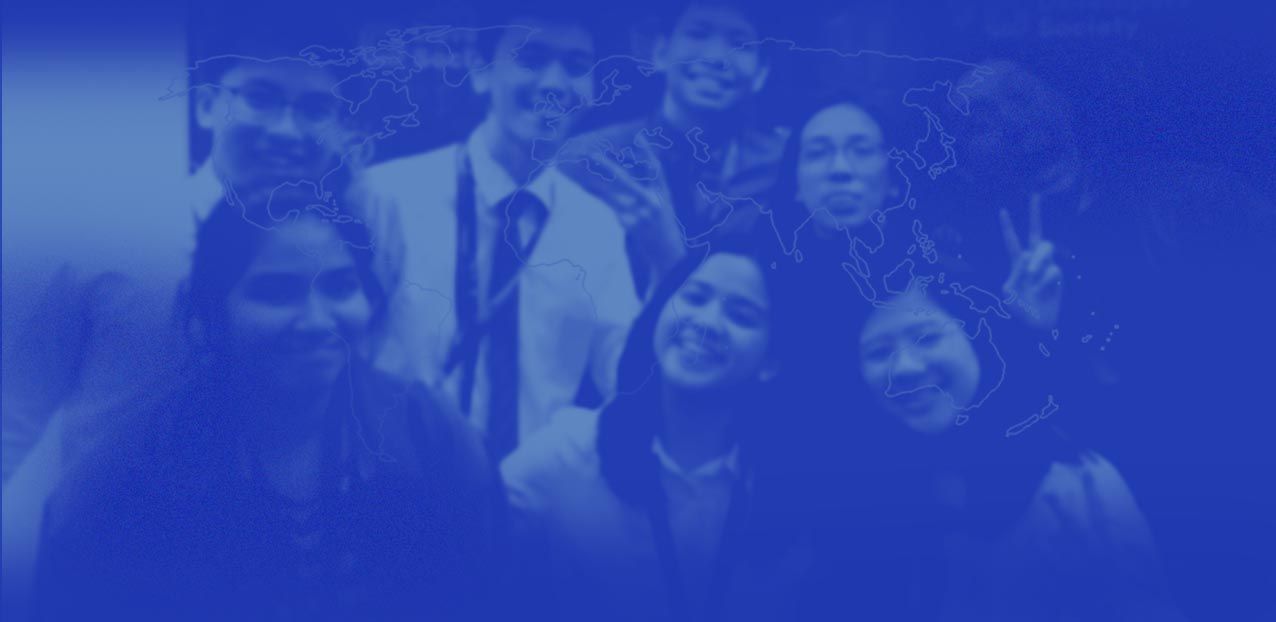
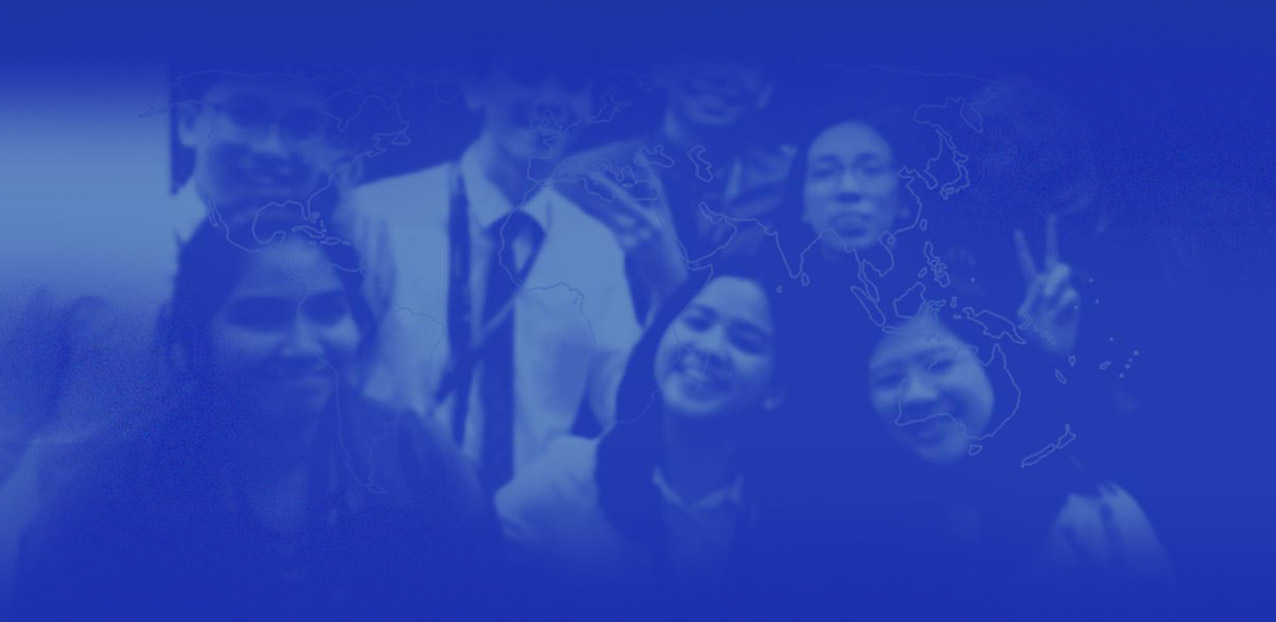
about and mobilel fixies

diff --git a/public/assets/styles/main.css b/public/assets/styles/main.css
@@ -1,2 +1,2 @@
-body{background:#FCFCFF;font-family:'Messina Sans';text-rendering:optimizeLegibility;-webkit-font-smoothing:antialiased;-moz-osx-font-smoothing:grayscale}#container{box-sizing:border-box;position:absolute;top:0;left:0;display:flex;flex-wrap:wrap;align-items:flex-start;height:100%;width:100vw;justify-items:center;overflow-x:hidden;overflow-y:scroll}.box{width:100%;box-sizing:border-box;display:flex;flex-wrap:wrap;justify-content:center;vertical-align:center;align-items:center;margin:0}body,*{-webkit-transition:all .25s linear;-moz-transition:all .25s linear;-ms-transition:all .25s linear;-o-transition:all .25s linear;transition:all .25s linear;color:#60656b}h1{display:block;text-align:left;font-size:2.1em;font-family:'GTHaptikBlack';font-weight:800;margin:0;max-width:80%}h2{display:block;font-size:1.8em;color:#60656b;font-family:'GTHaptikMedium'}h3{margin:0}h4{margin:.3em 0;font-size:.8em;text-transform:uppercase;font-family:'Messina Sans Mono'}p{font-size:18px;line-height:1.4em;margin:.75em 0}p a{border-bottom:1px solid transparent}p a:hover{border-bottom:1px solid #001E8F}.box-inner{padding:5vw}a{color:#001E8F;text-decoration:none}a:hover{color:#95C5DB}img{max-width:100%}details summary::-webkit-details-marker{display:none}details summary::after{content:"Learn more...";color:#a6b3c3}details:hover summary::after{color:#7e868f}.row{display:flex}.row section{min-width:40%}@media only screen and (max-width: 800px){.row{flex-wrap:wrap}.row section{width:100%}}#header{position:fixed;top:0;left:0;width:100%;height:110px;z-index:99;box-sizing:border-box;background-image:url(../images/navigatin.png);background-repeat:repeat-x;background-size:contain;justify-content:center;display:flex;justify-content:center;flex-wrap:wrap}#header .header-container{width:100%;max-width:1000px;margin:.5em}#header .header-left{display:inline-block;float:left;width:200px;opacity:0.9}#header .header-left:hover{transform:scale(1.02);opacity:1}#header .header-right{display:inline-block;float:right;margin-top:.75em}#header .header-right a{color:#FCFCFF;font-family:'GTHaptikBold';font-size:1.3em;margin:.5em .5em;padding:.5em;opacity:0.9}#header .header-right a:hover{color:#95C5DB;opacity:1}#footer{box-sizing:border-box;padding:1em 0;background:#131314;color:#7e868f;text-align:center}#footer .box-inner{max-width:750px;min-height:90px}#footer .links a{padding:0 .5em;margin:0 .5em;font-family:'Messina Sans Mono';color:#a6b3c3;text-transform:uppercase;font-size:.9em}#footer .links a:hover{text-shadow:0 0 10px #a6b3c3}#footer p{font-size:1.2em;font-weight:100;color:#7e868f}@media only screen and (max-width: 800px){#footer p{text-align:left;line-height:1.5em}}#heading{box-sizing:border-box;margin-top:1.75em;background:#1931AB;background-position:top center;min-height:300px;background-size:cover;background-repeat:none}#heading .box-inner{max-width:600px;padding-top:2em}#heading h1{text-align:center;max-width:100%;color:#FCFCFF;font-size:2.6em;font-weight:400}#heading p{color:#a6b3c3;mix-blend-mode:screen;text-align:center}.projects-container{display:flex;flex-wrap:wrap;justify-content:center;max-width:800px}.projects-container .project-box{width:320px;margin:1em;padding:.5em}.projects-container .project-box img{display:none}.projects-container .project-box h1{font-size:1.5em;font-family:'Messina Sans'}.projects-container .project-box h3{font-family:"Messina Sans Mono";text-transform:uppercase;font-size:.8em;color:#7e868f}.projects-container .project-box p{font-size:.9em;color:#7e868f}.projects-container .project-box:hover{transform:scale(1.02)}@media only screen and (max-width: 800px){.projects-container .project-box{width:90%;max-width:600px}}#signup{min-height:100px}#signup .box-inner{margin-top:-2em}#signup *{display:inline-block}#signup h2{display:block;text-align:center}#signup .mc-field-group{font-size:1em}#signup .mc-field-group input[type=email]{background:none;display:inline-block;border:1px solid #7e868f;border-radius:5px;font-size:1em;padding:.5em 1em;font-family:'Messina Sans';height:23px;min-width:250px}#signup input[type=submit]{display:inline-block;background:#131314;color:#FCFCFF;padding:.5em 1em;font-size:1.2em;border-radius:5px;border:0;margin:.3em 0;height:40px}#signup input[type=submit]:hover{transform:translateY(-2px);box-shadow:0 7px 14px rgba(50,50,93,0.1),0 3px 6px rgba(0,0,0,0.08)}#getinvolved{background:#1931AB;background-blend-mode:screen;background-position:top center;text-align:center;padding:2em 0}#getinvolved h2,#getinvolved p{text-align:center;color:#FCFCFF;margin:.5em}#getinvolved a.button{display:inline-block;color:#60656b;background:#95C5DB;height:30px;line-height:30px;margin:1em;padding:.5em .75em;border-radius:.5em}#getinvolved a.button:hover{background:#a6b3c3;transform:translateY(-2px);box-shadow:0 7px 14px rgba(50,50,93,0.1),0 3px 6px rgba(0,0,0,0.08)}.team-container{display:flex;flex-wrap:wrap;justify-content:center;text-align:center}.team-container .team-box{width:200px;margin:.5em}.team-container .team-box h2{font-family:'Messina Sans';font-size:1.2em;margin:.2em 0 0 0}.team-container .team-box h3{font-size:.7em;font-weight:100;margin:0;text-transform:uppercase;color:#a6b3c3;font-family:'Messina Sans Mono'}.team-container .team-box p{font-size:.9em;color:#7e868f;text-align:left}.team-container .team-box img{box-sizing:border-box;margin-bottom:1em;border-radius:5px;filter:grayscale(1)}.community-container .community-communities{width:100%;display:flex;flex-wrap:wrap;justify-content:center}.community-container .community-place{padding:1em;max-width:120px;text-align:center;font-size:.8em;line-height:1.3em;mix-blend-mode:lighten;color:#7e868f}.community-container .community-place img{max-width:110px;padding:1em;box-sizing:border-box}.community-container a.button{display:inline-block;background:#a6b3c3;color:#60656b;margin:1em;padding:.5em .75em;border-radius:.5em}.community-container a.button:hover{color:#FCFCFF;background:#1931AB;transform:translateY(-2px);box-shadow:0 7px 14px rgba(50,50,93,0.1),0 3px 6px rgba(0,0,0,0.08)}@font-face{font-family:'GTHaptikBlack';src:url(/assets/fonts/GTHaptikBlack.woff2) format("woff2"),url(/assets/fonts/GTHaptikBlack.woff) format("woff");font-weight:900;font-style:normal}@font-face{font-family:'GTHaptikMedium';src:url(/assets/fonts/GTHaptikMedium.woff2) format("woff2"),url(/assets/fonts/GTHaptikMedium.woff) format("woff");font-weight:500;font-style:normal}@font-face{font-family:'GTHaptikBold';src:url(/assets/fonts/GTHaptikBold.woff2) format("woff2"),url(/assets/fonts/GTHaptikBold.woff) format("woff");font-weight:bold;font-style:normal}@font-face{font-family:'Messina Sans Mono';src:url(/assets/fonts/MessinaSansMono-Regular.woff2) format("woff2"),url(/assets/fonts/MessinaSansMono-Regular.woff) format("woff");font-weight:normal;font-style:normal}@font-face{font-family:'Messina Sans';src:url(/assets/fonts/MessinaSans-Regular.woff2) format("woff2"),url(/assets/fonts/MessinaSans-Regular.woff) format("woff");font-weight:normal;font-style:normal}@font-face{font-family:'Messina Sans';src:url(/assets/fonts/MessinaSans-BoldItalic.woff2) format("woff2"),url(/assets/fonts/MessinaSans-BoldItalic.woff) format("woff");font-weight:bold;font-style:italic}@font-face{font-family:'Messina Sans';src:url(/assets/fonts/MessinaSans-RegularItalic.woff2) format("woff2"),url(/assets/fonts/MessinaSans-RegularItalic.woff) format("woff");font-weight:normal;font-style:italic}@font-face{font-family:'Messina Sans';src:url(/assets/fonts/MessinaSans-Bold.woff2) format("woff2"),url(/assets/fonts/MessinaSans-Bold.woff) format("woff");font-weight:bold;font-style:normal}
+body{background:#FCFCFF;font-family:'Messina Sans';text-rendering:optimizeLegibility;-webkit-font-smoothing:antialiased;-moz-osx-font-smoothing:grayscale}#container{box-sizing:border-box;position:absolute;top:0;left:0;display:flex;flex-wrap:wrap;align-items:flex-start;height:100%;width:100vw;justify-items:center;overflow-x:hidden;overflow-y:scroll}.box{width:100%;box-sizing:border-box;display:flex;flex-wrap:wrap;justify-content:center;vertical-align:center;align-items:center;margin:0}body,*{-webkit-transition:all .25s linear;-moz-transition:all .25s linear;-ms-transition:all .25s linear;-o-transition:all .25s linear;transition:all .25s linear;color:#60656b}h1{display:block;text-align:left;font-size:2.1em;font-family:'GTHaptikBlack';font-weight:800;margin:0;max-width:80%}h2{display:block;font-size:1.8em;color:#60656b;font-family:'GTHaptikMedium'}h3{margin:0}h4{margin:.3em 0;font-size:.8em;text-transform:uppercase;font-family:'Messina Sans Mono'}p{font-size:18px;line-height:1.4em;margin:.75em 0}p a{border-bottom:1px solid transparent}p a:hover{border-bottom:1px solid #001E8F}.box-inner{padding:5vw}a{color:#001E8F;text-decoration:none}a:hover{color:#95C5DB}img{max-width:100%}details summary::-webkit-details-marker{display:none}details summary::after{content:"Learn more...";color:#a6b3c3}details:hover summary::after{color:#7e868f}.row{display:flex}.row section{min-width:40%}@media only screen and (max-width: 800px){.row{flex-wrap:wrap}.row section{width:100%}}#header{position:fixed;top:0;left:0;width:100%;height:110px;z-index:99;box-sizing:border-box;background-image:url(../images/navigatin.png);background-repeat:repeat-x;background-size:contain;justify-content:center;display:flex;justify-content:center;flex-wrap:wrap}#header .header-container{width:100%;max-width:1000px;margin:.5em}#header .header-left{display:inline-block;float:left;width:200px;opacity:0.9}#header .header-left:hover{transform:scale(1.02);opacity:1}#header .header-right{display:inline-block;float:right;margin-top:.75em}#header .header-right a{color:#FCFCFF;font-family:'GTHaptikBold';font-size:1.3em;margin:.5em .5em;padding:.5em;opacity:0.9}#header .header-right a:hover{color:#95C5DB;opacity:1}@media only screen and (max-width: 800px){#header .header-left{display:none}#header .header-right{width:100%;text-align:center}}#footer{box-sizing:border-box;padding:1em 0;background:#131314;color:#7e868f;text-align:center}#footer .box-inner{max-width:750px;min-height:90px}#footer .links a{padding:0 .5em;margin:0 .5em;font-family:'Messina Sans Mono';color:#a6b3c3;text-transform:uppercase;font-size:.9em}#footer .links a:hover{text-shadow:0 0 10px #a6b3c3}#footer p{font-size:1.2em;font-weight:100;color:#7e868f}@media only screen and (max-width: 800px){#footer p{text-align:left;line-height:1.5em}}#heading{box-sizing:border-box;margin-top:1.75em;background:#1931AB;background-position:top center;min-height:300px;background-size:cover;background-repeat:none}#heading .box-inner{max-width:600px;padding-top:2em}#heading h1{text-align:center;max-width:100%;color:#FCFCFF;font-size:2.6em;font-weight:400}#heading p{color:#a6b3c3;mix-blend-mode:screen;text-align:center}.projects-container{display:flex;flex-wrap:wrap;justify-content:center;max-width:800px}.projects-container .project-box{width:320px;margin:1em;padding:.5em}.projects-container .project-box img{display:none}.projects-container .project-box h1{font-size:1.5em;font-family:'Messina Sans'}.projects-container .project-box h3{font-family:"Messina Sans Mono";text-transform:uppercase;font-size:.8em;color:#7e868f}.projects-container .project-box p{font-size:.9em;color:#7e868f}.projects-container .project-box:hover{transform:scale(1.02)}@media only screen and (max-width: 800px){.projects-container .project-box{width:90%;max-width:600px}}#signup{min-height:100px}#signup .box-inner{margin-top:-2em}#signup *{display:inline-block}#signup h2{display:block;text-align:center}#signup .mc-field-group{font-size:1em}#signup .mc-field-group input[type=email]{background:none;display:inline-block;border:1px solid #7e868f;border-radius:5px;font-size:1em;padding:.5em 1em;font-family:'Messina Sans';height:23px;min-width:250px}#signup input[type=submit]{display:inline-block;background:#131314;color:#FCFCFF;padding:.5em 1em;font-size:1.2em;border-radius:5px;border:0;margin:.3em 0;height:40px}#signup input[type=submit]:hover{transform:translateY(-2px);box-shadow:0 7px 14px rgba(50,50,93,0.1),0 3px 6px rgba(0,0,0,0.08)}#getinvolved{background:#1931AB;background-blend-mode:screen;background-position:top center;text-align:center;padding:2em 0}#getinvolved h2,#getinvolved p{text-align:center;color:#FCFCFF;margin:.5em}#getinvolved a.button{display:inline-block;color:#60656b;background:#95C5DB;height:30px;line-height:30px;margin:1em;padding:.5em .75em;border-radius:.5em}#getinvolved a.button:hover{background:#a6b3c3;transform:translateY(-2px);box-shadow:0 7px 14px rgba(50,50,93,0.1),0 3px 6px rgba(0,0,0,0.08)}.team-container{display:flex;flex-wrap:wrap;justify-content:center;text-align:center}.team-container .team-box{width:200px;margin:.5em}.team-container .team-box h2{font-family:'Messina Sans';font-size:1.2em;margin:.2em 0 0 0}.team-container .team-box h3{font-size:.7em;font-weight:100;margin:0;text-transform:uppercase;color:#a6b3c3;font-family:'Messina Sans Mono'}.team-container .team-box p{font-size:.9em;color:#7e868f;text-align:left}.team-container .team-box img{box-sizing:border-box;margin-bottom:1em;border-radius:5px;filter:grayscale(1)}.team-container .team-box a{padding:.5em;display:inline-block}.team-container .team-box a:hover{transform:translateY(-2px);text-shadow:0 7px 14px rgba(50,50,93,0.1),0 3px 6px rgba(0,0,0,0.08)}.community-container .community-communities{width:100%;display:flex;flex-wrap:wrap;justify-content:center}.community-container .community-place{padding:1em;max-width:120px;text-align:center;font-size:.8em;line-height:1.3em;mix-blend-mode:lighten;color:#7e868f}.community-container .community-place img{max-width:110px;padding:1em;box-sizing:border-box}.community-container a.button{display:inline-block;background:#a6b3c3;color:#60656b;margin:1em;padding:.5em .75em;border-radius:.5em}.community-container a.button:hover{color:#FCFCFF;background:#1931AB;transform:translateY(-2px);box-shadow:0 7px 14px rgba(50,50,93,0.1),0 3px 6px rgba(0,0,0,0.08)}@font-face{font-family:'GTHaptikBlack';src:url(/assets/fonts/GTHaptikBlack.woff2) format("woff2"),url(/assets/fonts/GTHaptikBlack.woff) format("woff");font-weight:900;font-style:normal}@font-face{font-family:'GTHaptikMedium';src:url(/assets/fonts/GTHaptikMedium.woff2) format("woff2"),url(/assets/fonts/GTHaptikMedium.woff) format("woff");font-weight:500;font-style:normal}@font-face{font-family:'GTHaptikBold';src:url(/assets/fonts/GTHaptikBold.woff2) format("woff2"),url(/assets/fonts/GTHaptikBold.woff) format("woff");font-weight:bold;font-style:normal}@font-face{font-family:'Messina Sans Mono';src:url(/assets/fonts/MessinaSansMono-Regular.woff2) format("woff2"),url(/assets/fonts/MessinaSansMono-Regular.woff) format("woff");font-weight:normal;font-style:normal}@font-face{font-family:'Messina Sans';src:url(/assets/fonts/MessinaSans-Regular.woff2) format("woff2"),url(/assets/fonts/MessinaSans-Regular.woff) format("woff");font-weight:normal;font-style:normal}@font-face{font-family:'Messina Sans';src:url(/assets/fonts/MessinaSans-BoldItalic.woff2) format("woff2"),url(/assets/fonts/MessinaSans-BoldItalic.woff) format("woff");font-weight:bold;font-style:italic}@font-face{font-family:'Messina Sans';src:url(/assets/fonts/MessinaSans-RegularItalic.woff2) format("woff2"),url(/assets/fonts/MessinaSans-RegularItalic.woff) format("woff");font-weight:normal;font-style:italic}@font-face{font-family:'Messina Sans';src:url(/assets/fonts/MessinaSans-Bold.woff2) format("woff2"),url(/assets/fonts/MessinaSans-Bold.woff) format("woff");font-weight:bold;font-style:normal}
 

diff --git a/public/about.html b/public/about.html
@@ -4,23 +4,27 @@
     <meta charset="UTF-8">
   <meta http-equiv="X-UA-Compatible" content="IE=edge,chrome=1">
   <meta name="viewport" content="width=device-width,initial-scale=1">
-    <title>Developh: Projects</title>
+    <title>Developh: About Us</title>
     <!-- Search Engine -->
-    <meta name="description" content="Learn about our efforts across education and innovation." />
-    <meta name="image" content="https://developh.org/img/projects/projects-preview.png" />
+    <meta name="description" content="Learn about the global student-run movement breaking the innovation gap." />
+    <meta name="image" content="https://developh.org/img/preview-main.png" />
     <!-- Schema.org for Google -->
-    <meta itemprop="name" content="Developh: Projects" />
-    <meta itemprop="description" content="Learn about our efforts across education and innovation." />
-    <meta itemprop="image" content="https://developh.org/img/projects/projects-preview.png" />
+    <meta itemprop="name" content="About Developh" />
+    <meta itemprop="description" content="Learn about the global student-run movement breaking the innovation gap." />
+    <meta itemprop="image" content="https://developh.org/img/preview.png" />
     <!-- Open Graph general (Facebook, Pinterest & Google+) -->
-    <meta property="og:title" content="Developh: Projects" />
-    <meta property="og:description" content="Learn about our efforts across education and innovation." />
-    <meta property="og:image" content="https://developh.org/img/projects/projects-preview.png" />
-    <meta property="og:url" content="https://developh.org/projects" />
-    <meta property="og:site_name" content="Developh: Projects" />
+    <meta property="og:title" content="About Developh" />
+    <meta property="og:description" content="Learn about the global student-run movement breaking the innovation gap." />
+    <meta property="og:image" content="https://developh.org/img/preview-main.png" />
+    <meta property="og:url" content="https://developh.org/about" />
+    <meta property="og:site_name" content="About Developh" />
     <meta property="fb:admins" content="1499726656" />
     <meta property="og:type" content="website" />
 
+    <meta content="Learn about the global student-run movement breaking the innovation gap." name="description" />
+    <meta content="Developh, Developh org, Developh Philippines, tech diversity, tech inclusivity, fellowship, youth coding, technopreneurship, Developh, DevSociety, devsocietyorg, nonprofit, technology, organization, innovation, DevSoc, Chiara Amisola, Philippines, coding" name="keywords" />
+    <meta content="width=device-width, initial-scale=.7" name="viewport" />
+      
     <meta content="Learn about our efforts across education and innovation." name="description" />
     <meta content="Developh, Developh org, Developh Philippines, tech diversity, tech inclusivity, fellowship, youth coding, technopreneurship, nonprofit, technology, organization, innovation, DevSoc, Chiara Amisola, Philippines, coding" name="keywords" />
       <link rel="stylesheet" href="assets/styles/main.css">
@@ -66,17 +70,7 @@
       
       <div id="container">
       
-          <div id="heading" class="box center">
-              
-              <div class="box-inner">
         
-            <h1>About</h1>
-            <p>Discover what we do at Developh and how we started, meet the team behind the group and see what we're building!</p>
-              
-            </div>
-              
-          </div>
-          
           
           
           <div id="intro" class="box center" style="background-image:url(assets/images/about.jpg)">
@@ -84,9 +78,9 @@
     
         
                   <h2>Every student has the potential to be a creator.</h2>
-                  <p>Developh is an international student-led non-profit that seeks to nurture youth innovation through accessible technology opportunities. In 2019, we're living in an age with unprecedented tools and resources to grow tech; but opportunity and retention are still at lows, with innovation leaving behind the underserved masses. These divides in representation and talent in the technology industry only further the innovation gap in the technology sector.</p>
+                  <p>Developh is an international student-led nonprofit nurturing youth innovation through accessible technology opportunities. In 2020, we're living in an age with unprecedented tools and resources to grow tech; but opportunity and retention are still at lows, with innovation leaving behind the underserved masses. These divides in representation and talent in the technology industry only further the innovation gap in our world.</p>
                     
-                <p>We want to bring more young people—especially from underrepresented communities—into technology and innovation, where their voices are most important. By bridging gaps in young people's pathways to tech, we forward a technology scene shaped by the masses it should build for. We're refactoring the technology pipeline, helping students found and build things not only for the next generation: but in the scene today.</p>
+                <p>We want to bring more young people&mdash;especially from underrepresented communities&mdash;into technology and innovation, where their voices are most important.<br> By bridging gaps in young people's pathways to tech, we forward a technology scene shaped by the masses it should build for. We're refactoring the technology pipeline, helping students found and build things not only for the next generation: but in the scene today.</p>
                   
                   
                 <div class="impact">
@@ -116,6 +110,103 @@
           
               
           </div>
+          
+        <div class="box center">
+        
+            <div class="box-inner">
+                <h2>Why Developh?</h2>
+                <p>Run by students who faced obstacles in pursuing technology that still remain today, we understand the gaps in the process—and what could be worked on to solve it. Most importantly, we know that inclusive student communities are essential in overcoming barriers in technology. Be it in a school organization, or in finally finding a co-founder in a community that doesn't believe in you. That's why we're building a national pipeline to bring more young people into tech.</p>
+                
+    <p>We're students investing in students from outreach in the communities that surround us and have molded us, to educating & learning from one another online, to building things together. We're good at building—and build a lot. We're ambitious, back it up with passion + hard effort put in, and know that community arises wherever creation comes.
+We've formed a large coalition and a support system that works, always build with intent & context, plus know how students can learn and grow better than anyone else—we're students after all.</p>
+            </div>
+          
+        </div>
+          
+          
+        <div id="team" class="box center">
+            <div class="box-inner">
+
+                <h2>Team</h2>
+
+                <div class="team-container">
+
+
+                    <div class="team-box">
+                        <img src="images/people/chia.jpg">
+                        <h3>CEO & Founder</h3>
+                        <h2>Chia Amisola</h2>
+                        <p>Chia is a creative technologist in love with products and initiatives that build the world. She's designed + coded for product startups and student startup communities, always looking to launch things that matter. <i class="fa fa-graduation-cap"></i> CS & Art at Yale</p>
+                        
+                    <a href="https://linkedin.com/in/amisola"><i class="fa fa-linkedin"></i></a>
+                        
+                    <a href="mailto:chia@developh.org"><i class="fa fa-envelope"></i></a>
+                        
+                    <a href="https://chia.dev"><i class="fa fa-desktop"></i></a>
+                        
+                    </div>
+
+                    <div class="team-box">
+                        <img src="images/people/bianca.jpg">
+                        <h3>Chief Design Officer</h3>
+                        <h2>Bianca Aguilar</h2>
+                        <p>Bianca is a Manila-based artist and designer who enjoys developing visuals to empower brands & mission-driven organizations. <i class="fa fa-graduation-cap"></i> CS Programming & Information Design at Ateneo de Manila University.</p>
+                        
+                        
+                    <a href="https://www.linkedin.com/in/biancamikaila/"><i class="fa fa-linkedin"></i></a>
+                        
+                    <a href="mailto:bianca@developh.org"><i class="fa fa-envelope"></i></a>
+                        
+                    <a href="https://biancamikaila.com"><i class="fa fa-desktop"></i></a>
+                        
+                        
+                    </div>
+                    <div class="team-box">
+                        <img src="images/people/kirsten.jpg">
+                        <h3>Chief Community Officer</h3>
+                        <h2>Kirsten Sison</h2>
+                        <p>Kirsten is a CS student, programmer, and lover of technology-based communities. <i class="fa fa-graduation-cap"></i> Computer Science (specialization in Software Technology) at De La Salle University.</p>
+                        
+                        
+                    <a href="https://www.linkedin.com/in/skentir/"><i class="fa fa-linkedin"></i></a>
+                        
+                    <a href="mailto:kirsten@developh.org"><i class="fa fa-envelope"></i></a>
+                        
+                    <a href="https://github.com/skentir"><i class="fa fa-desktop"></i></a>
+                        
+                        
+                    </div>
+
+                </div>
+            </div>
+
+            </div>
+          
+          <div id="signup" class="box center">
+                <div class="box-inner">
+                    <h2>Subscribe for updates</h2>
+
+                    <div id="mc_embed_signup">
+                        <form action="https://developh.us16.list-manage.com/subscribe/post?u=edf95f5730b59057cb969b4d5&amp;id=36793e2dc5" method="post" id="mc-embedded-subscribe-form" name="mc-embedded-subscribe-form" class="validate" target="_blank" novalidate>
+                            <div id="mc_embed_signup_scroll">
+
+                                <div class="mc-field-group">
+                                    <input type="email" value="" name="EMAIL" class="required email" id="mce-EMAIL" placeholder="Enter your email">
+                                </div>
+                                <div id="mce-responses" class="clear">
+                                    <div class="response" id="mce-error-response" style="display:none"></div>
+                                    <div class="response" id="mce-success-response" style="display:none"></div>
+                                </div> <!-- real people should not fill this in and expect good things - do not remove this or risk form bot signups-->
+                                <div style="position: absolute; left: -5000px;" aria-hidden="true"><input type="text" name="b_edf95f5730b59057cb969b4d5_36793e2dc5" tabindex="-1" value=""></div>
+                                <div class="clear"><input type="submit" value="Subscribe" name="subscribe" id="mc-embedded-subscribe" class="button"></div>
+                            </div>
+                        </form>
+                    </div>
+
+
+                </div>
+            </div>
+          
           
           <div id="footer" class="box center">
           

diff --git a/public/assets/styles/about.css b/public/assets/styles/about.css
@@ -1,2 +1,2 @@
-#intro{background-repeat:no-repeat;background-size:cover}#intro .box-inner{max-width:750px}#intro h2{color:#FCFCFF;text-align:center}#intro p{color:#ede5e5;line-height:1.8em;margin-bottom:1.5em}.impact{display:flex;flex-wrap:wrap;justify-content:space-between}.impact .impact-box{display:inline-block;width:220px;text-align:center;font-family:'Messina Sans';margin:1em 0}.impact strong{font-size:2em;color:#95C5DB}.impact em{font-family:'Messina Sans Mono';display:block;text-transform:uppercase;font-style:normal;color:#FCFCFF}
+#intro{padding:2em 3em;background-repeat:no-repeat;background-size:cover}#intro .box-inner{max-width:750px}#intro h2{color:#FCFCFF;text-align:center}#intro p{color:#ede5e5;line-height:1.8em;margin-bottom:1.5em}.impact{display:flex;flex-wrap:wrap;justify-content:space-between}.impact .impact-box{display:inline-block;width:220px;text-align:center;font-family:'Messina Sans';margin:1em 0}.impact strong{font-size:2em;color:#95C5DB}.impact em{font-family:'Messina Sans Mono';display:block;text-transform:uppercase;font-style:normal;color:#FCFCFF}.box-inner{max-width:750px}.box-inner p{color:#7e868f;line-height:1.8em;margin-bottom:1.5em}
 

diff --git a/src/styles/main.scss b/src/styles/main.scss
@@ -220,6 +220,18 @@ details:hover summary::after {
         }
         
     }
+    
+    
+    @media only screen and (max-width: 800px) {
+        .header-left{
+            display: none;
+        }
+        
+        .header-right{
+            width:100%;
+            text-align: center;
+        }
+    }
 
 }
 
@@ -499,6 +511,16 @@ body.area-projects {
             margin-bottom:1em;
             border-radius:5px;
             filter:grayscale(1);
+        }
+        
+        a{
+            padding:.5em;
+            display: inline-block;
+        }
+        
+        a:hover{
+            transform:translateY(-2px);
+        text-shadow: 0 7px 14px rgba(50, 50, 93, 0.1), 0 3px 6px rgba(0, 0, 0, 0.08);
         }
         
         

diff --git a/src/styles/about.scss b/src/styles/about.scss
@@ -3,6 +3,8 @@
 
 #intro{
     
+    padding:2em 3em;
+    
     background-repeat: no-repeat;
     background-size:cover;
     
@@ -51,4 +53,14 @@
         }
         
     
+}
+
+    
+.box-inner{
+    max-width:750px;
+    p{
+        color: $gray-light;
+        line-height:1.8em;
+        margin-bottom:1.5em;
+    }
 }

diff --git a/public/index.html b/public/index.html
@@ -210,6 +210,7 @@
                     </div>
 
                 </div>
+            </div>
 
             </div>
 
